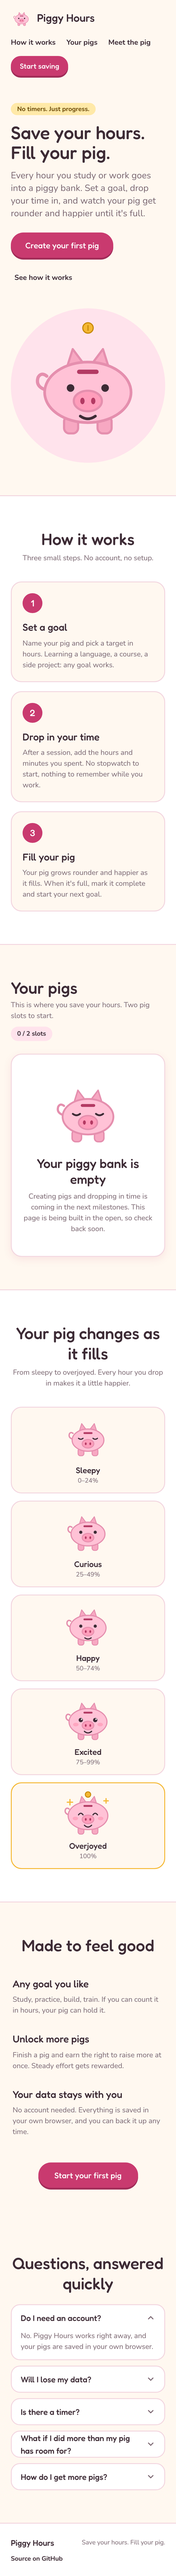
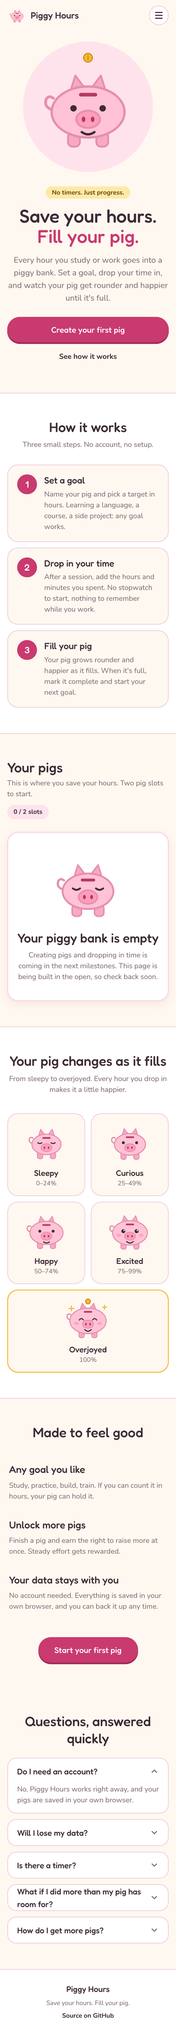
docs: refresh mobile screenshots and changelog
Claude-Session: https://claude.ai/code/session_01NuQ1EdFroiMok7k3iHfsp8

diff --git a/CHANGELOG.md b/CHANGELOG.md
@@ -14,10 +14,12 @@ All notable changes are documented here. The format follows [Keep a Changelog](h
 - Original SVG pig with five moods and six colors
 - Static landing sections: header, hero, how it works, your pigs (empty state), moods, benefits, FAQ, footer
 - Design system preview page at `/#design-system`
-- Component tests (22 tests in total)
+- Mobile menu: hamburger button that opens a side drawer with the section links (focus trap, Escape, focus returns to the button)
+- Component tests (24 tests in total)
 
 ### Changed
 
+- Mobile-first layout: the hero shows the pig first, a two-line headline, full-width buttons; How it works becomes compact horizontal cards; the five moods use a 2-column grid; sections have tighter padding on phones
 - Strong pig colors darkened so every progress fill has at least 3:1 contrast against its track; contrast of all text pairs verified (see `docs/DESIGN.md` section 13)
 
 ## [0.1.0]
